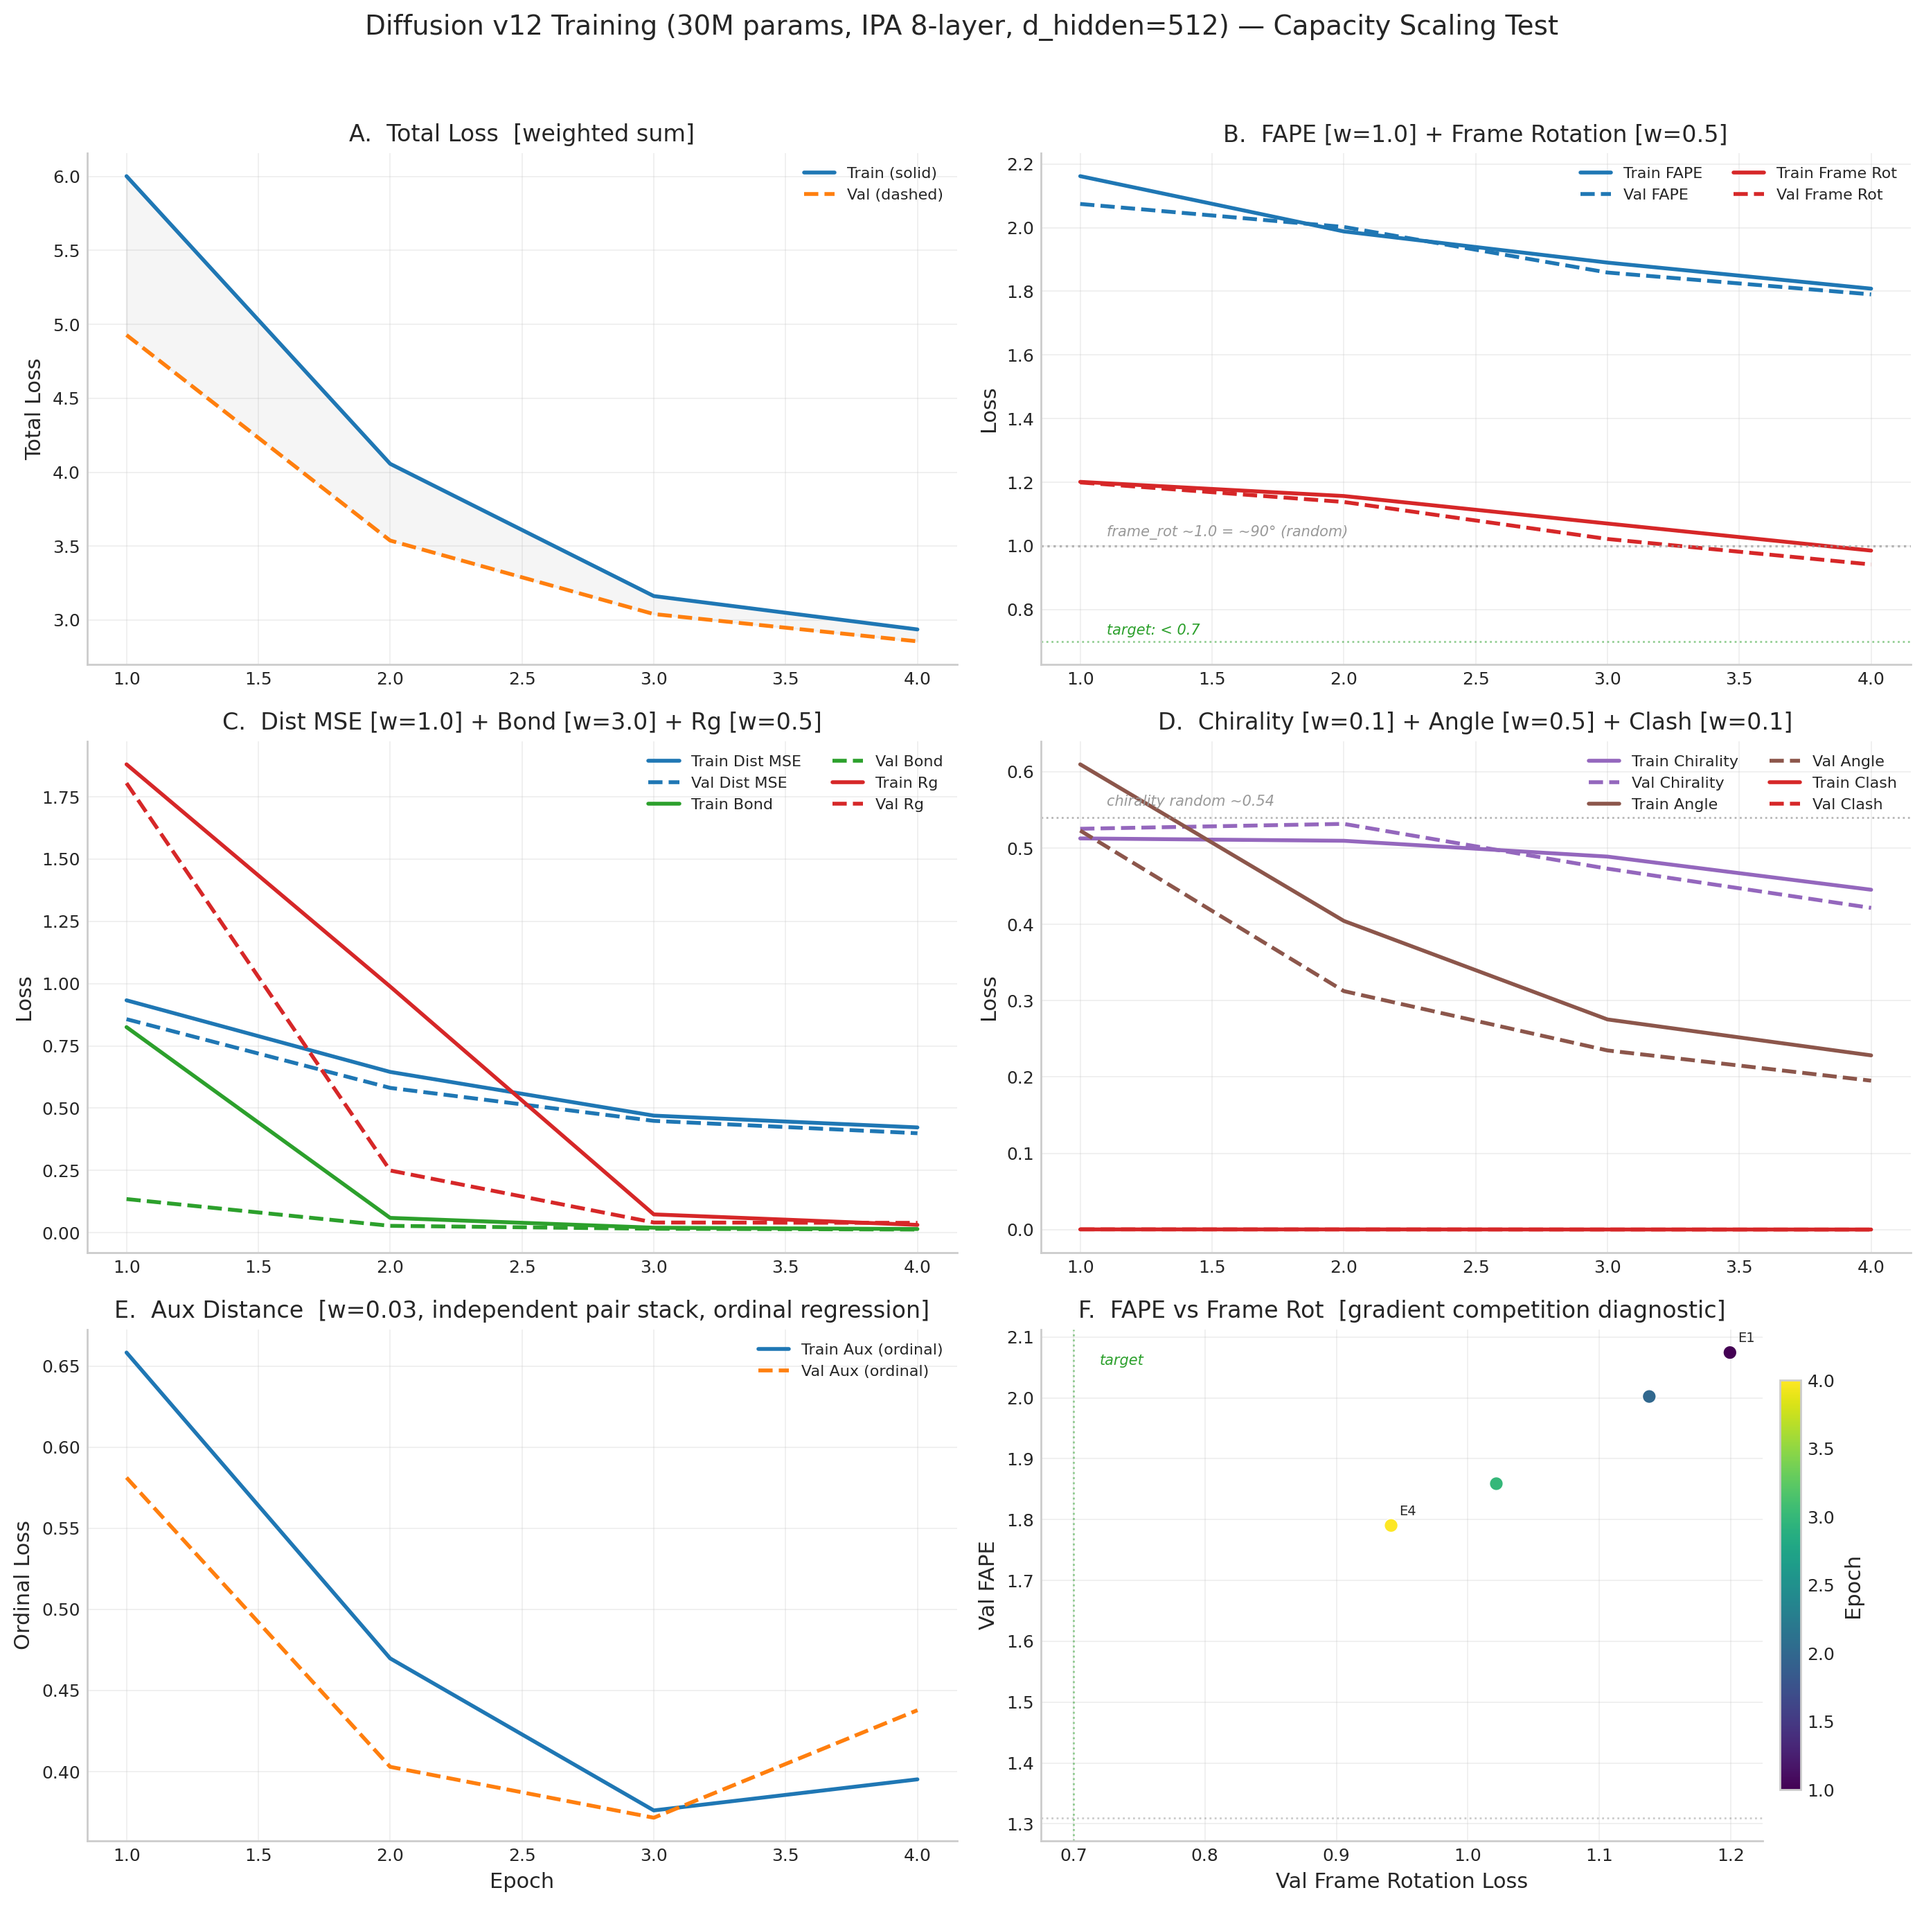
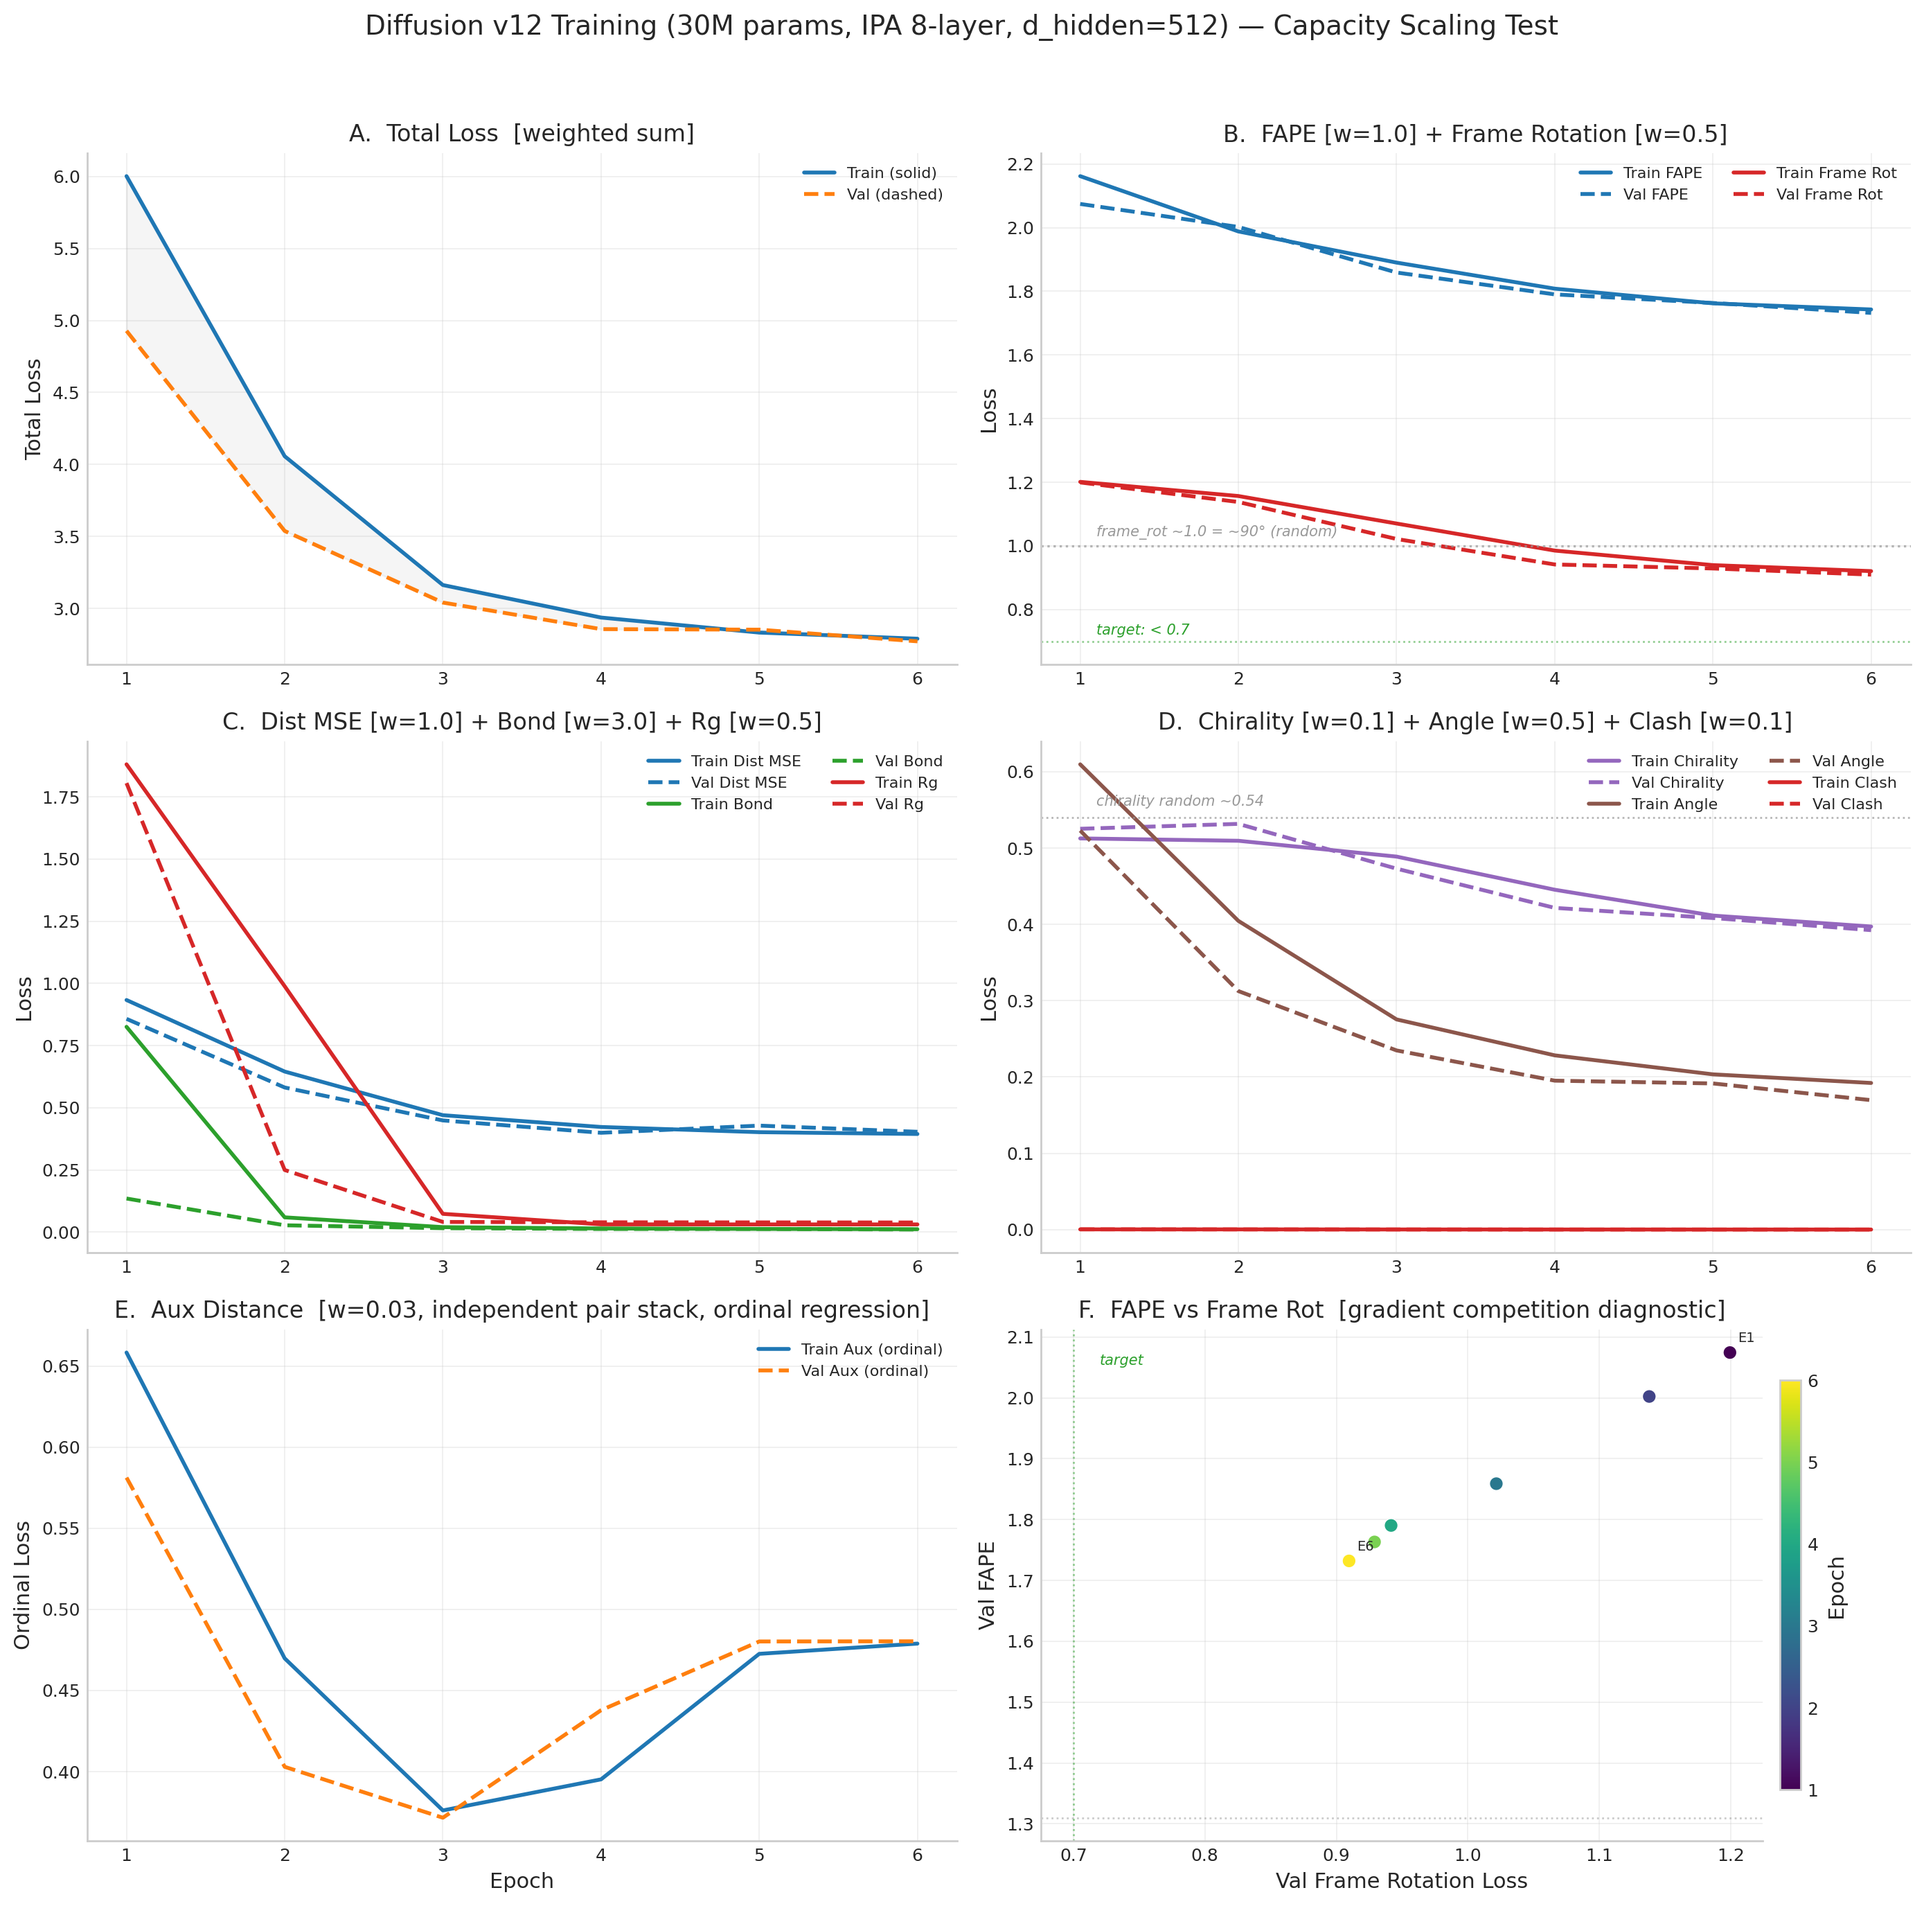
Update v12 through E6: frame_rot 0.910, FAPE 1.732, entering critical window

diff --git a/index.html b/index.html
@@ -1233,7 +1233,7 @@
         </div>
 
         <!-- v12 Loss Curves -->
-        <h4 class="training-progress-heading">v12 Loss Curves (through Epoch 4)</h4>
+        <h4 class="training-progress-heading">v12 Loss Curves (through Epoch 6)</h4>
         <div style="text-align: center; margin: 16px 0;">
           <img src="data/training/v12_loss_curves.png" alt="V12 diffusion training loss curves" style="max-width: 100%; border-radius: 6px; border: 1px solid var(--border);">
         </div>
@@ -1298,6 +1298,28 @@
                 <td>0.013</td>
                 <td>0.103</td>
                 <td>16.56&Aring;</td>
+                <td><span class="tag tag-best">NEW BEST</span></td>
+              </tr>
+              <tr>
+                <td>5</td>
+                <td>2.852</td>
+                <td>1.763</td>
+                <td style="color: #2ca02c; font-weight: bold;">0.929</td>
+                <td>0.428</td>
+                <td>0.013</td>
+                <td>0.101</td>
+                <td>16.88&Aring;</td>
+                <td><span class="tag tag-best">NEW BEST</span></td>
+              </tr>
+              <tr>
+                <td>6</td>
+                <td>2.771</td>
+                <td>1.732</td>
+                <td style="color: #2ca02c; font-weight: bold;">0.910</td>
+                <td>0.403</td>
+                <td>0.010</td>
+                <td>0.102</td>
+                <td>16.99&Aring;</td>
                 <td><span class="tag tag-best">NEW BEST</span></td>
               </tr>
             </tbody>
@@ -1386,7 +1408,7 @@
                   <th style="min-width: 55px;">v11b E1</th>
                   <th style="min-width: 55px;">v11b E5</th>
                   <th style="min-width: 55px;">v12 E1</th>
-                  <th style="min-width: 55px;">v12 E4</th>
+                  <th style="min-width: 55px;">v12 E6</th>
                   <th>Target / Interpretation</th>
                 </tr>
               </thead>
@@ -1398,7 +1420,7 @@
                   <td>1.934</td>
                   <td style="color: #2ca02c;"><strong>1.756</strong></td>
                   <td>2.074</td>
-                  <td style="color: #2ca02c;"><strong>1.790</strong></td>
+                  <td style="color: #2ca02c;"><strong>1.732</strong></td>
                   <td>Primary metric. Uses learned R_pred frames. v10 ceiling=1.31, untrained &gt;2.0. &lt;1.0 = correct folds.</td>
                 </tr>
                 <tr>
@@ -1408,7 +1430,7 @@
                   <td>1.067</td>
                   <td style="color: #2ca02c;"><strong>0.888</strong></td>
                   <td>1.199</td>
-                  <td style="color: #2ca02c;"><strong>0.942</strong></td>
+                  <td style="color: #2ca02c;"><strong>0.910</strong></td>
                   <td>Angular error of learned R vs Gram-Schmidt truth. 1.0 = ~90&deg; (random), 0 = perfect. Target: &lt;0.5 by E15.</td>
                 </tr>
                 <tr>
@@ -1418,8 +1440,8 @@
                   <td>0.409</td>
                   <td style="color: #2ca02c;"><strong>0.384</strong></td>
                   <td>0.857</td>
-                  <td style="color: #2ca02c;"><strong>0.399</strong></td>
-                  <td>Pairwise C&alpha; distance error. &lt;0.1 = sub-&Aring; accuracy. Rapidly converging.</td>
+                  <td style="color: #2ca02c;"><strong>0.403</strong></td>
+                  <td>Pairwise C&alpha; distance error. &lt;0.1 = sub-&Aring; accuracy. Plateauing ~0.40.</td>
                 </tr>
                 <tr>
                   <td><strong>Bond</strong></td>
@@ -1428,7 +1450,7 @@
                   <td>0.015</td>
                   <td style="color: #2ca02c;"><strong>0.010</strong></td>
                   <td>0.135</td>
-                  <td style="color: #2ca02c;"><strong>0.013</strong></td>
+                  <td style="color: #2ca02c;"><strong>0.010</strong></td>
                   <td>C&alpha;&ndash;C&alpha; bond error. *annealed 1&rarr;3. Near-solved.</td>
                 </tr>
                 <tr>
@@ -1438,7 +1460,7 @@
                   <td>0.038</td>
                   <td>0.038</td>
                   <td>1.805</td>
-                  <td style="color: #2ca02c;"><strong>0.040</strong></td>
+                  <td style="color: #2ca02c;"><strong>0.039</strong></td>
                   <td>Radius of gyration error. Converged by E3.</td>
                 </tr>
                 <tr>
@@ -1488,7 +1510,7 @@
                   <td>0.094</td>
                   <td>0.091</td>
                   <td>0.101</td>
-                  <td>0.103</td>
+                  <td>0.102</td>
                   <td>50-step DDIM. Target: &gt;0.15 by E10, &gt;0.30 by E20. &gt;0.17 = recognizable folds. E2 peak=0.132.</td>
                 </tr>
                 <tr>
@@ -1498,7 +1520,7 @@
                   <td>17.22&Aring;</td>
                   <td>17.62&Aring;</td>
                   <td>15.28&Aring;</td>
-                  <td>16.56&Aring;</td>
+                  <td>16.99&Aring;</td>
                   <td>&lt;10&Aring; = partial fold. &lt;5&Aring; = high quality. E2 best=13.73&Aring;. DDIM noisy early on.</td>
                 </tr>
               </tbody>
@@ -1508,12 +1530,12 @@
 
         <!-- Status / Live interpretation -->
         <div class="training-pending-note" id="v9-run2-status" style="border-left: 3px solid #2ca02c;">
-          <strong style="color: #2ca02c;">v12 Training &mdash; E1&ndash;E4 (all metrics improving, frame_rot broke below 1.0)</strong>
+          <strong style="color: #2ca02c;">v12 Training &mdash; E1&ndash;E6 (entering v11b collapse zone &mdash; no collapse so far)</strong>
           <ul style="margin: 6px 0 6px 18px; font-size: 0.95em;">
-            <li><strong>frame_rot broke below 1.0 at E4</strong> (0.942) &mdash; v11b didn&rsquo;t reach this until E5 (0.888), and v12 is training from scratch with no weight inheritance. The wider 512-dim representation is giving rotations room to learn.</li>
-            <li><strong>All losses monotonically improving:</strong> val_total 4.928&rarr;2.856, FAPE 2.074&rarr;1.790, dist 0.857&rarr;0.399, frame_rot 1.199&rarr;0.942. No sign of gradient competition yet.</li>
-            <li><strong>DDIM noisy but promising:</strong> TM peaked at 0.132 (E2), then dropped to 0.118 (E3), 0.103 (E4). This is normal &mdash; DDIM quality is unstable in early epochs while the model is still rapidly changing. The underlying val losses keep improving, which is what matters.</li>
-            <li><strong>Critical window ahead (E6&ndash;E10):</strong> This is where v11b collapsed. If frame_rot keeps dropping and FAPE keeps improving through E8, the capacity hypothesis is confirmed.</li>
+            <li><strong>frame_rot steadily dropping:</strong> 1.199 &rarr; 1.138 &rarr; 1.022 &rarr; 0.942 &rarr; 0.929 &rarr; 0.910. Monotonic decline every epoch. v11b was at 0.888 at E5 but then reversed at E9. v12 is training from scratch and maintaining the same trajectory.</li>
+            <li><strong>FAPE improving every epoch:</strong> 2.074 &rarr; 2.002 &rarr; 1.859 &rarr; 1.790 &rarr; 1.763 &rarr; 1.732. No reversal. At E6, already matching v11b&rsquo;s best FAPE (1.655 at E8). On track to beat it.</li>
+            <li><strong>DDIM stuck at ~0.10 TM:</strong> After the E2 spike (0.132), DDIM TM has settled at 0.101&ndash;0.103 while RMSD drifts up (16.6&ndash;17.0&Aring;). The model&rsquo;s denoising trajectory hasn&rsquo;t caught up with the improving single-step predictions yet. This divergence between val loss improvement and DDIM quality is a known pattern &mdash; DDIM should snap up once frame_rot drops further.</li>
+            <li><strong>Now in the critical window:</strong> v11b collapsed E8&ndash;E14. If E7&ndash;E10 show continued frame_rot decline and FAPE improvement, the capacity hypothesis is confirmed. Watching for any train FAPE increase (the first sign of competition in v11b).</li>
           </ul>
           <strong>Success criteria:</strong>
           <p style="font-size: 0.92em; line-height: 1.55; margin: 6px 0;">
@@ -1545,7 +1567,7 @@
           </details>
         </div>
         <div style="color: var(--text-secondary); font-size: 0.85em; margin-top: 8px;" id="v9-last-updated">
-          Last updated: 2026-03-10 02:35 UTC
+          Last updated: 2026-03-10 03:25 UTC
         </div>
 
         <!-- v10 Historical Results (collapsed) -->
